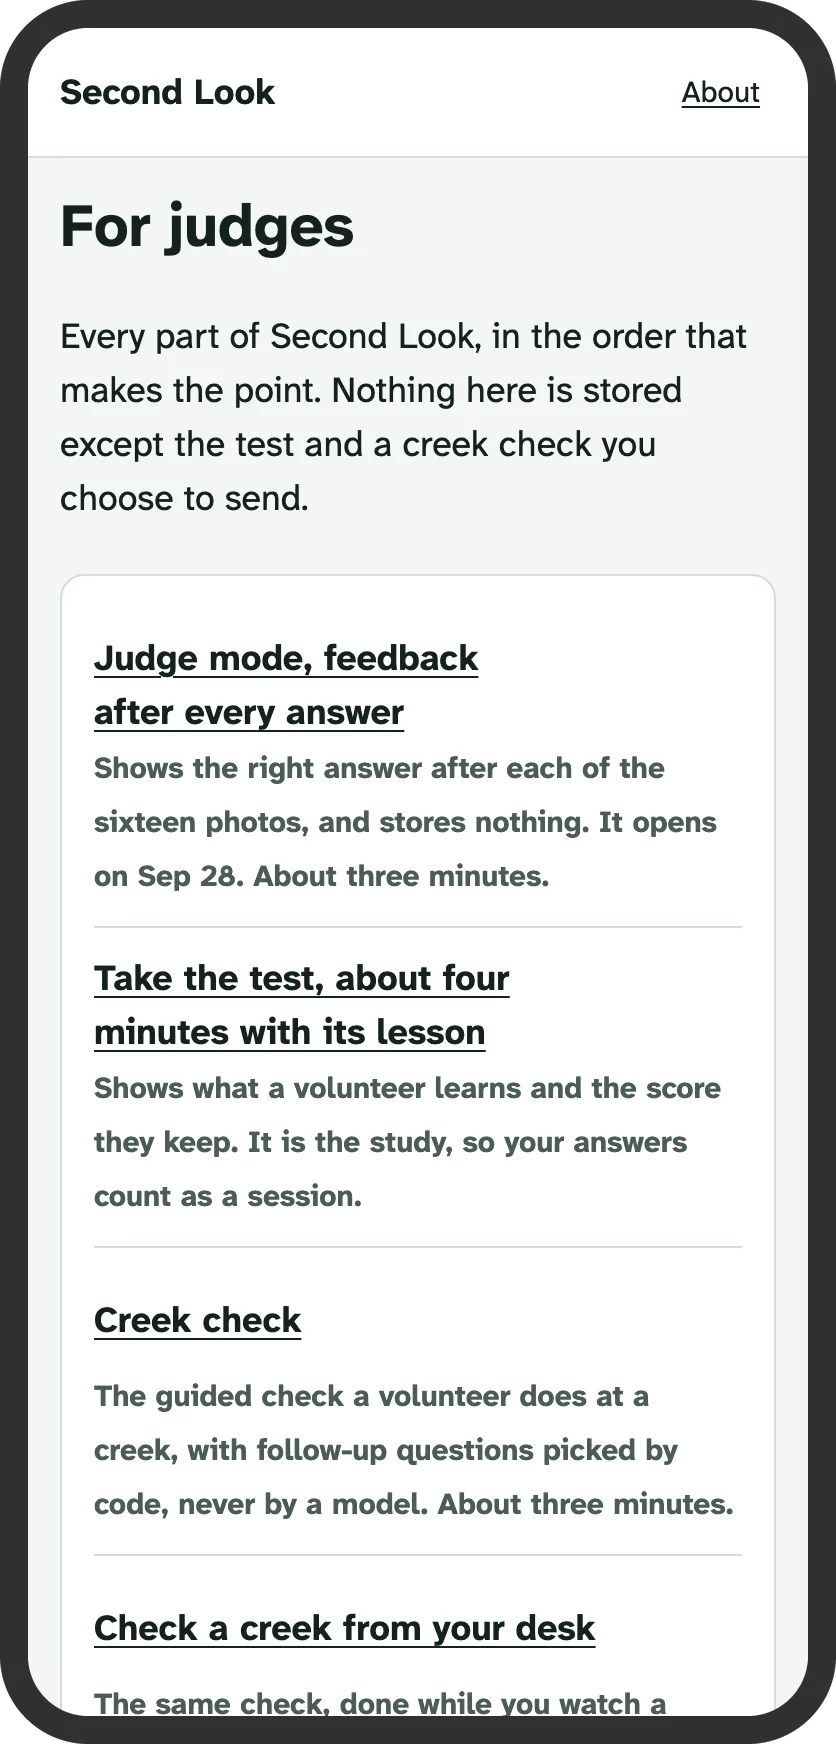
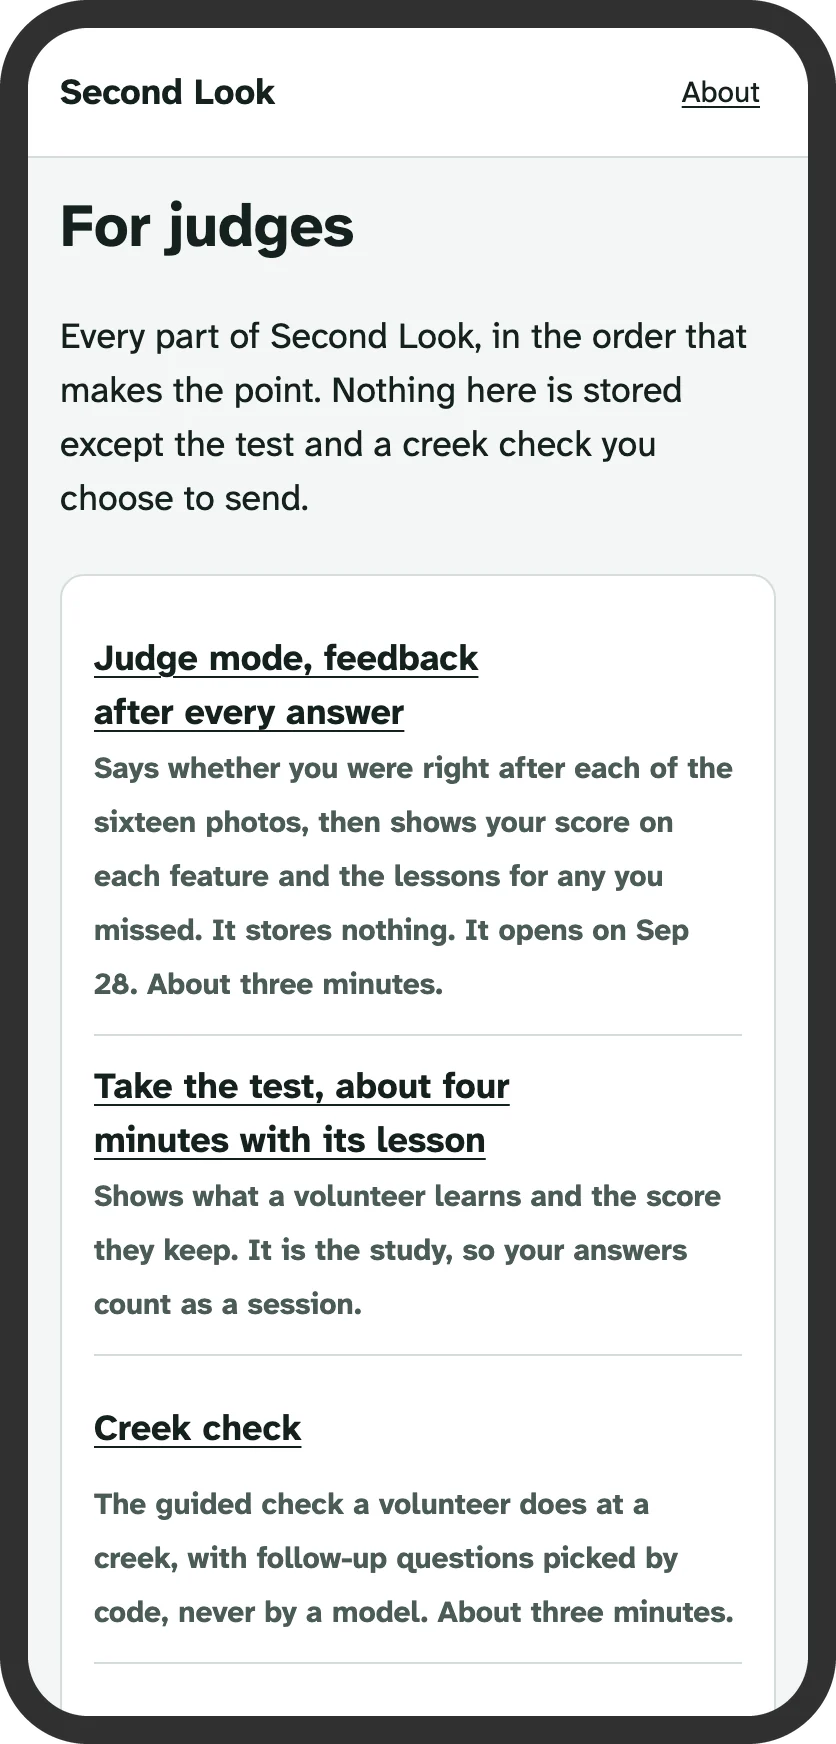
Screens captured again from the live site after the round 09 fixes

Changed region(s): [[0.0933, 0.4335, 0.8708, 0.9908]]

diff --git a/README.md b/README.md
@@ -72,7 +72,7 @@ The test runs as a pre-registered study that stays open: it is the volunteer's o
 
 ## Gallery
 
-There are <!--v:results/screens.json#/screen_count-->32<!--/v--> phone screens at <!--v:results/screens.json#/phone/css_width-->390<!--/v--> by <!--v:results/screens.json#/phone/css_height-->844<!--/v-->, in one drawn frame. <!--v:results/screens.json#/live_count-->24<!--/v--> come from the live site; the <!--v:results/screens.json#/local_mock_count-->8<!--/v--> marked (mock) come from a local build with the mock API, so no screenshot joined the study. `make screens` makes them again, and [`results/screens.json`](results/screens.json) lists each. The photos are credited on /credits.
+There are <!--v:results/screens.json#/screen_count-->32<!--/v--> phone screens at <!--v:results/screens.json#/phone/css_width-->390<!--/v--> by <!--v:results/screens.json#/phone/css_height-->844<!--/v-->, in one drawn frame. <!--v:results/screens.json#/live_count-->23<!--/v--> come from the live site; the <!--v:results/screens.json#/local_mock_count-->9<!--/v--> marked (mock) come from a local build with the mock API, so no screenshot joined the study. `make screens` makes them again, and [`results/screens.json`](results/screens.json) lists each. The photos are credited on /credits.
 
 <table>
 <tr>
